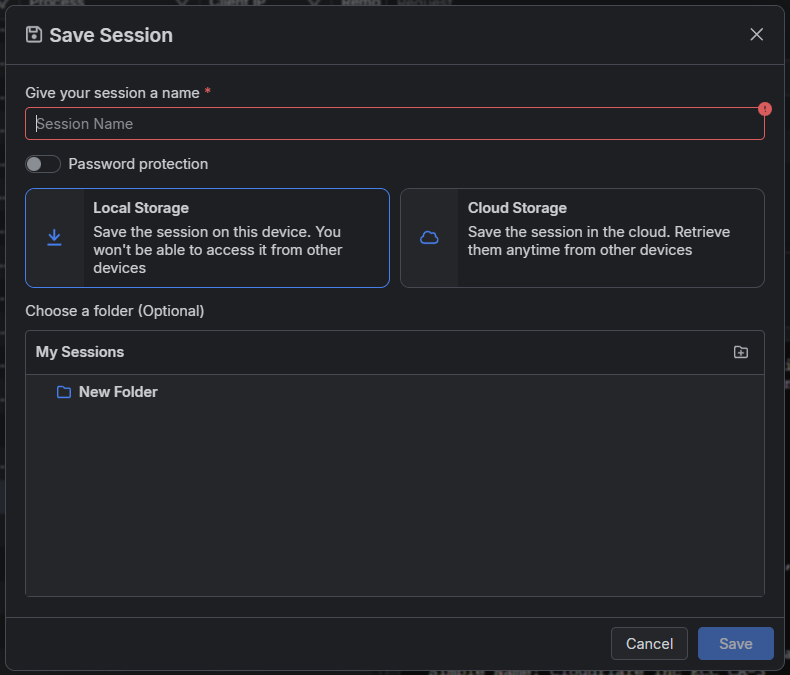
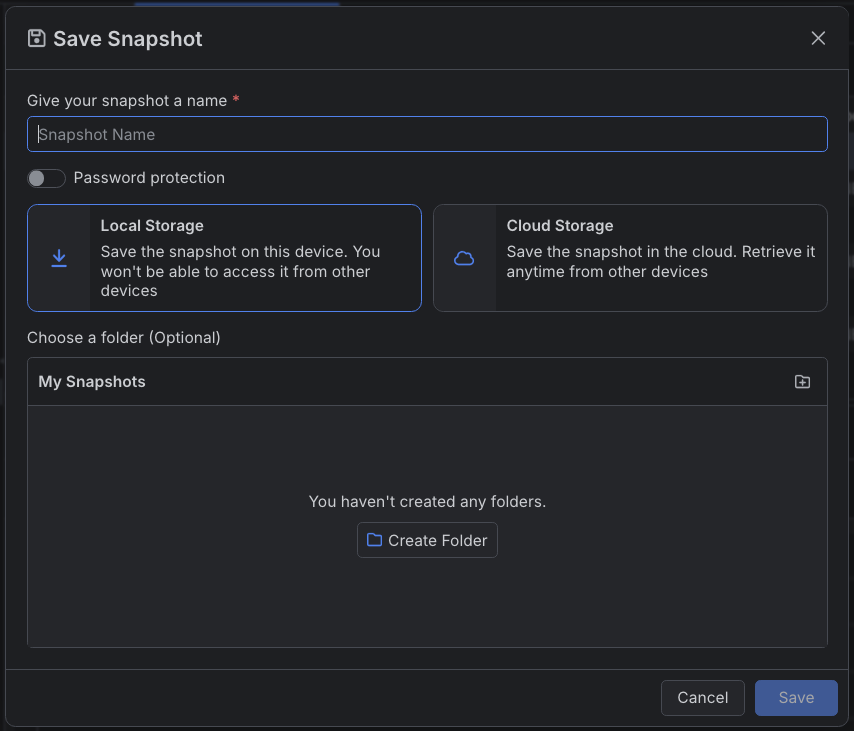
docs: renaming Sessions panel to Snapshots

diff --git a/knowledge-base/live-traffic-pane.md b/knowledge-base/live-traffic-pane.md
@@ -102,13 +102,13 @@ To save sessions for later or prepare sessions for sharing:
 
 1. (Optional) Use the **password protection** switch to enable encryption and set a password.
 
-1. Click **Save**. The saved session immediately loads in the save **Sessions** tree.
+1. Click **Save**. The saved sessions loads in the **Snapshots** tree list.
 
 ### Sharing Sessions
 
 Sharing sessions dramatically improve collaboration, and Fiddler Everywhere provides the following options to export and share sessions:
 
-- Sharing through the **Share** button from a saved session entry in the save **Sessions** tree.
+- Sharing through the **Share** button from a saved session entry in the **Snapshots** tree list.
 
 - Sharing through the **Share** option from the **Live Traffic** grid context menu.
 
@@ -116,11 +116,11 @@ Sharing sessions dramatically improve collaboration, and Fiddler Everywhere prov
 
 To share a session through the toolbar:
 
-1. Click the **Share** button. As a result, the **Save Session** prompt window appears.
+1. Click the **Share** button. As a result, the **Save Snapshot** prompt window appears.
 
-1. In the **Save Sessions** prompt window, enter a valid name and choose a folder to store the session.
+1. In the **Save Snapshot** prompt window, enter a valid name and choose a folder to store the session.
 
-1. In the **Share Sessions** prompt window, enter a valid email and click **Share**. Entering notes is optional.
+1. In the **Share Snapshot** prompt window, enter a valid email and click **Share**. Entering notes is optional.
 
 ### Managing Columns
 
@@ -138,7 +138,7 @@ The last icon on the right side of the toolbar presents an option to restructure
 - (Default layout) **Live Traffic grid** on the left side and the **Inspectors** on the right (top for **Request Inspectors** and bottom for **Response Inspectors**).
 - (Alternative layout) **Live Traffic grid** at the top and the **Inspectors** at the bottom (left for **Request Inspectors** and right for **Response Inspectors**).
 
->tip You can collapse the side panels **Sessions** and **Requests** and toggle the main layout to optimize your working space.
+>tip You can collapse or expand the **Snapshots** and **Requests** side panels and toggle the main layout to optimize your working space.
 
 ## Live Traffic Grid
 
@@ -506,7 +506,7 @@ To add a new rule:
 
 ### Saving
 
-To save selected sessions, use the **Save** context menu option. The saved sessions will appear in the save **Sessions** tree to the left of the Fiddler Everywhere interface, and from there, you can later re-open, export, and share them.
+To save selected sessions, use the **Save** context menu option. The snapshot of saved sessions will appear in the **Snapshots** tree to the left of the Fiddler Everywhere interface, and from there, you can later re-open, export, and share them.
 
 The option displays a **Save** prompt window. To save the desired sessions:
 
@@ -516,7 +516,7 @@ The option displays a **Save** prompt window. To save the desired sessions:
 
 1. (Optional) Use the **password protection** switch to enable encryption and set a password. Only users with knowledge of the password can open the entry.
 
-1. Click **Save**. The saved session immediately loads in the save **Sessions** tree.
+1. Click **Save**. The saved session immediately loads in the save **Snapshots** tree.
 
 1. Double-click the saved session to load it in a new **Composer** tab. Note that encrypted sessions will prompt for a password before loading.
 
@@ -528,7 +528,7 @@ The **Export** context menu option allows you to export the selected sessions in
 
 ### Sharing
 
-The **Share** context menu option enables the sharing of selected sessions. Before any session is shared, it is saved as an entry in the save **Sessions** tree. Then, the threshold can be transmitted through email.
+The **Share** context menu option enables the sharing of selected sessions. Before any session is shared, it is saved as an entry in the save **Snapshots** tree. Then, the threshold can be transmitted through email.
 
 The option initially displays a **Save** and then a **Share** prompt window.
 

diff --git a/collaboration/sharing-data.md b/collaboration/sharing-data.md
@@ -11,7 +11,7 @@ previous_url: /collaboration
 
 This article covers the sharing capabilities of Fiddler Everywhere as follows:
 
-- [Sharing session's snapshots](#sharing-sessions-snapshots)&mdash;Options to save single or multiple captured HTTPS sessions as local/cloud snapshots in the save **Sessions** tree.
+- [Sharing session's snapshots](#sharing-sessions-snapshots)&mdash;Options to save single or multiple captured HTTPS sessions as local/cloud snapshots in the save **Snapshots** tree.
 
 - [Sharing API request collections](#sharing-requests-collections)&mdash;Options to share API requests collections as local/cloud collections in the **Requests** list.
 
@@ -39,9 +39,9 @@ To share a selected session from the ongoing capturing in the sessions grid:
 
 ### Sharing Saved Session Snapshot
 
-To share a saved session snapshot from the save **Sessions** tree:
+To share a saved session snapshot from the save **Snapshots** tree:
 
-1. Double-click a saved session entry from the save **Sessions** tree.
+1. Double-click a saved session entry from the save **Snapshots** tree.
 
 1. The session entry opens in a new tab. Click the **Share** button from the **more** option in the toolbar. This action loads the **Share Sessions** prompt window. 
 
@@ -58,7 +58,7 @@ The **Manage Users** option appears if the session snapshot is stored in the clo
 
 ### Deleting Shared Sessions
 
-Fiddler Everywhere provides options for deleting previously shared sessions. To select the sessions you want to delete, go to the save **Sessions** tree and use the **Delete** button. All users added as collaborators will be notified through the [notification bar](#notifications-for-shared-content)  and with an email message that the shared session is now deleted. To restore deleted sessions, use the **Shared Sessions** option.
+Fiddler Everywhere provides options for deleting previously shared sessions. To select the sessions you want to delete, go to the save **Snapshots** tree and use the **Delete** button. All users added as collaborators will be notified through the [notification bar](#notifications-for-shared-content)  and with an email message that the shared session is now deleted. To restore deleted sessions, use the **Shared Snapshots** option.
 
 
 ## Sharing Requests Collections
@@ -106,7 +106,7 @@ Some network sessions may lack essential details not captured in the technical d
 
 Add a custom comment to one or more captured sessions to provide additional context.
 
-1. Select a session from the sessions grid or load saved sessions from the save **Sessions** tree.
+1. Select a session from the sessions grid or load saved session's snapshot from the save **Snapshots** tree.
 
 1. Add a comment by using the **Comment** option from the context menu or press the **M** key while selecting the desired sessions. As a result, the newly added comment will appear in the **Comments** column.
 
@@ -137,6 +137,6 @@ The Fiddler Everywhere client informs the recipients about shared resources (inc
 
     * Confirm the opening of the resource.
 
-    * The shared resources load in the respective section (for example, a shared session loads in the **Sessions** list, a rule in the **Rules Queue**, and a request in the **Requests** collection). If the shared resource is a snapshot of sessions, its content immediately loads in a new tab.
+    * The shared resources load in the respective section (for example, a shared session loads in the **Snapshots** list, a rule in the **Rules Queue**, and a request in the **Requests** collection). If the shared resource is a snapshot of sessions, its content immediately loads in a new tab.
 
     ![Notification for received content](../images/settings/notifications-for-shared-content.png)

diff --git a/collaboration/saving-data.md b/collaboration/saving-data.md
@@ -11,7 +11,7 @@ previous_url: /user-guide/sessions-list
 
 With Fiddler Everywhere, you can capture and generate data like HTTPS sessions, composed API requests, and rules. It's only natural that the application provides user interface options to save, organize and share the information so it can be reused later. This article covers the saving capabilities of Fiddler Everywhere as follows:
 
-- [Saving session's snapshots](#saving-sessions-snapshots)&mdash;Options to save single or multiple captured HTTPS sessions as local/cloud snapshots in the save **Sessions** tree.
+- [Saving session's snapshots](#saving-sessions-snapshots)&mdash;Options to save single or multiple captured HTTPS sessions as local/cloud snapshots in the save **Snapshots** tree.
 
 - [Saving API requests collections](#saving-api-requests)&mdash;Options to save single or multiple composed API requests as local/cloud collections in the **Requests** list.
 
@@ -27,9 +27,9 @@ The save options in Fiddler Everywhere allow you to use local and cloud save, or
 
 ## Saving Session's Snapshots
 
-The save **Sessions** tree in Fiddler Everywhere lets you store snapshots of previously captured traffic. The section is part of a collapsible panel that you can hide/show to optimize your working space. 
+The save **Snapshots** tree in Fiddler Everywhere lets you store snapshots of previously captured traffic. The section is part of a collapsible panel that you can hide/show to optimize your working space. 
 
-Save session snapshots to the save **Sessions** tree as follows:
+Save session snapshots to the save **Snapshots** tree as follows:
 
 - Use the **Save** option from the more option within the **Live Traffic** grid toolbar.
 
@@ -45,9 +45,9 @@ OR
 
 You can select, inspect, modify, and share snapshots of previously saved session snapshots with collaborators. The snapshots can be saved locally or in the cloud. You can apply the following actions to a saved session snapshot:
 
-- Single-click to select a session snapshot from the save **Sessions** tree.
+- Single-click to select a session snapshot from the save **Snapshots** tree.
 
-- Double-click to open a saved session snapshot from the save **Sessions** tree in a new tab. Only users with the password can open the session entry for encrypted snapshots.
+- Double-click to open a saved session snapshot from the save **Snapshots** tree in a new tab. Only users with the password can open the session entry for encrypted snapshots.
 
 - Right-click to load the context menu of a selected session snapshot. The context menu provides multiple options for managing, exporting, and modifying the saved session entry. 
 
@@ -57,7 +57,7 @@ You can select, inspect, modify, and share snapshots of previously saved session
 
     ![Snapshot UI options](../images/collaboration/save-session-ui-buttons.png)
 0
-- Use the UI buttons at the top to **import** session snapshots or access previously **shared sessions** snapshots.
+- Use the UI buttons at the top to **import** session snapshots or access previously **Shared Snapshots** snapshots.
 
     ![Sessions list UI options](../images/collaboration/save-sessions-list-button.png)
 

diff --git a/inspect-traffic/inspect-traffic.md b/inspect-traffic/inspect-traffic.md
@@ -25,11 +25,11 @@ The session content immediately loads in the Fiddler's **Inspectors**. The appli
 
 ## Overview Traffic Statistics
 
-To extract information about the captured sessions, go to the **Live Traffic** grid, where each request/response entry (session) shows in a row with multiple columns fields in the save **Sessions** tree. There you can extract valuable data such as the returned status code, the host and the URL, the type of the used protocol (HTTP or HTTPS), the body sizer in bytes, and the HTTP method (GET or POST). The output traffic can be filtered, exported, commented on, and shared for further and detailed inspection.
+To extract information about the captured sessions, go to the **Live Traffic** grid, where each request/response entry (session) shows in a row with multiple columns fields. There you can extract valuable data such as the returned status code, the host and the URL, the type of the used protocol (HTTP or HTTPS), the body size in bytes, and the HTTP method (GET or POST). The output traffic can be filtered, exported, commented on, and shared for further and detailed inspection.
 
 To open the structured information about the session in the [**Overview** tab]({%slug overview-tab%}), follow these steps:
 
-1. Capture HTTP(S) traffic while using your preferred [capturing mode]({%slug capture-traffic-get-started%}).
+1. Capture HTTP(S) traffic while using your preferred [capturing mode]({%slug capture-traffic-get-started%}). ALternatively, you can load previosly saved session's snapshot from the **Snapshots** list.
 
 1. Select a session, and switch to the **Overview** tab.
 
@@ -47,10 +47,10 @@ Fiddler Everywhere loads the selected sessions side-by-side with the session wit
 
 [Deep-dive into the Fiddler's `Compare Sessions`` tab here ...]({%slug fe-compare-sessions%})
 
-## Sessions List
+## Snapshots
 
-Fiddler Everywhere provides a section called the **Sessions** tree that allows you to create a collection of previously captured HTTPS sessions.
+Fiddler Everywhere provides a section called the **Snapshots** that is a tree-based list to store and create a collection of previously captured HTTPS sessions.
 
-You can save (and then share) a snapshot of captured traffic (for example, a selected session or multiple selected sessions) through one of the save options within the user interface. The inspection of sessions often happens with teammates or external collaborators. You can share selected or multiple sessions directly from the sessions grid or using the save **Sessions** tree.
+You can save (and then share) a snapshot of captured traffic (for example, a selected session or multiple selected sessions) through one of the save options within the user interface. The inspection of sessions often happens with teammates or external collaborators. You can share selected or multiple sessions directly from the sessions grid or using the save **Snapshots** tree.
 
-[Learn more about saving and sharing with the Fiddler's Sessions tree here ...]({%slug fe-organize-sessions%})
+[Learn more about saving and sharing with the Fiddler's Snapshots tree here ...]({%slug fe-organize-sessions%})

diff --git a/inspect-traffic/organizing-traffic.md b/inspect-traffic/organizing-traffic.md
@@ -1,6 +1,6 @@
 ---
 title: Organizing Traffic
-description: "Use the `Sessions` tree to save, organize and share snapshots of captured traffic."
+description: "Use the `Snapshots` tree to save, organize and share snapshots of captured traffic."
 slug: fe-organize-sessions
 publish: true
 position: 50
@@ -8,18 +8,18 @@ position: 50
 
 # Organizing Traffic
 
-In addition to the core capturing and inspection capabilities, Fiddler Everywhere provides options to save, share and organize already captured sessions. The section that enables you to achieve the above is called the **Sessions** tree. To open the **Sessions** follow these steps:
+In addition to the core capturing and inspection capabilities, Fiddler Everywhere provides options to save, share and organize already captured sessions. The section that enables you to achieve the above is called the **Snapshots** tree. To open the **Snapshots** follow these steps:
 
 1. Start Fiddler Everywhere.
 1. Open the **Traffic** pane.
-1. Expand the **Sessions** tree located to the left.
+1. Expand the **Snapshots** tree located to the left.
 
-The **Sessions** tree in Fiddler Everywhere provides the option to save, organize, modify, inspect, encrypt, and share previously captured traffic. The section is part of a collapsible panel that you can hide/show to optimize your working space.
+The **Snapshots** tree in Fiddler Everywhere provides the option to save, organize, modify, inspect, encrypt, and share previously captured traffic. The section is part of a collapsible panel that you can hide/show to optimize your working space.
 
 
 ## Saving in Fiddler Everywhere
 
-To save snapshots of captured traffic (single or multiple sessions) to the **Sessions** tree, use the saving and sharing options of the **Live Traffic** grid. All saved entries are automatically sorted in alphabetical order.
+To save snapshots of captured traffic (single or multiple sessions) to the **Snapshots** tree, use the saving and sharing options of the **Live Traffic** grid. All saved entries are automatically sorted in alphabetical order.
 
 Save a snapshot of captured HTTPS traffic through the following steps:
 
@@ -27,7 +27,7 @@ Save a snapshot of captured HTTPS traffic through the following steps:
 
 1. Select one or more sessions.
 
-1. Use the context menu or the keyboard shortcuts `S` to invoke the **save** dialog.
+1. Use the context menu or the keyboard shortcuts `S` to invoke the **Save Snapshot** dialog.
 
     ![Save dialog](../images/livetraffic/session-save-prompt.png)
 
@@ -44,9 +44,9 @@ Save a snapshot of captured HTTPS traffic through the following steps:
 
 ## Sharing in Fiddler Everywhere
 
-Already saved snapshots of captured traffic can be shared directly within the **Sessions** tree.
+Already saved snapshots of captured traffic can be shared directly within the **Snapshots** tree.
 
-1. Select the saved snapshot from within the **Sessions** tree.
+1. Select the saved snapshot from within the **Snapshots** tree.
 
 1. Use the context menu to invoke the **Share** dialog.
 

diff --git a/security/security-highlights.md b/security/security-highlights.md
@@ -23,7 +23,7 @@ While using Fiddler Everywhere, consider the following security indicators and h
 
 - Fiddler enables to usage of password protection to prevent unauthorized access to saved sessions stored locally or in the cloud. Fiddler stores all saved sessions as SAZ files and, using the password protection option adds 256-bit AES encryption. Anyone with access to the SAZ file can open unprotected saves.
 
-- Fiddler Everywhere will not store your data in the cloud if you do not use sharing or cloud capabilities. Once you sign in, everything is stored locally (your credentials are verified in the cloud). The only way to get captured data in the cloud is to upload it explicitly through user interaction from the **Sessions** collections, **Requests** collections, or **rules** or share it with collaborators.
+- Fiddler Everywhere will not store your data in the cloud if you do not use sharing or cloud capabilities. Once you sign in, everything is stored locally (your credentials are verified in the cloud). The only way to get captured data in the cloud is to upload it explicitly through user interaction from the **Snapshots** collections, **Requests** collections, or **rules** or share it with collaborators.
 
 - Sessions uploaded to the Fiddler Everywhere cloud space are encrypted when password protection is enabled. All uploaded sessions are stored in the cloud as [Fiddler archives]({%slug fiddler-saz-format%}).
 
@@ -75,7 +75,7 @@ Once Fiddler Everywhere captures the traffic, you have the option to [save the s
 
 - Sessions saved in the cloud will continue locally through the `.fiddler` folder until explicitly removed. Removing the SAZ files from the `./fiddler` folder will remove their presence in the Fiddler Everywhere UI.
 
-- The only way to recover a deleted session from the save **Sessions** tree or a deleted SAZ file from the `.fiddler` folder is to download their cloud copy. Consider using the Fiddler Everywhere clouds saving option as a backup option.
+- The only way to recover a deleted session from the **Snapshots** tree or a deleted SAZ file from the `.fiddler` folder is to download their cloud copy. Consider using the Fiddler Everywhere clouds saving option as a backup option.
 
 - Sessions are stored in Fiddler Everywhere cloud space as SAZ files. Consider protecting sensitive data by adding password protection for all cloud saves, which adds 256-bit AES encryption.
 

diff --git a/inspect-traffic/compare-traffic.md b/inspect-traffic/compare-traffic.md
@@ -46,11 +46,11 @@ You can add and compare more sessions by adding them to the comparison groups.
     ![Add to compare group](../images/livetraffic/compare/compare-context-menu-add-to-group.png)
 
 
-## Comparing Saved Sessions
+## Comparing Saved Session Snapshots
 
-With Fiddler Everywhere, you can compare previously saved sessions from the save **Sessions** tree.
+With Fiddler Everywhere, you can compare previously saved sessions from the save **Snapshots** tree.
 
-1. Select a saved entry from the save **Sessions** tree you want to compare.
+1. Select a saved entry from the save **Snapshots** tree you want to compare.
 
 1. Select the **Compare** option from the context menu.
 
@@ -89,6 +89,6 @@ You can manage all sessions added in the **Compare Sessions (BETA)** tab through
 
 - **Delete Selected Sessions**&mdash;Removes the selected sessions from the compare group.
 
-- **Reveal in the Original List**&mdash;Focuses the selected session in its original location (for example, the **Live Traffic** grid or the opened **Sessions** tree tab).
+- **Reveal in the Original List**&mdash;Focuses the selected session in its original location (for example, the **Live Traffic** grid or the opened **Snapshots** tree tab).
 
 ![Compared Sessions context menu](../images/livetraffic/compare/compare-list-context-menu.png)

diff --git a/knowledge-base/fiddler-archives.md b/knowledge-base/fiddler-archives.md
@@ -103,11 +103,11 @@ The Fiddler Everywhere uses SAZ behind the scenes for each session explicitly sa
 
     ![Export SAZ from Live Traffic](../images/kb/saz/saz-export-live-traffic.png)
 
-- Use the **Export** option from the save **Sessions** tree's context menu and then choose **Fiddler Archive (SAZ)** as format.
+- Use the **Export** option from the **Snapshots** tree's context menu and then choose **Fiddler Archive (SAZ)** as format.
 
-    ![Export SAZ from Lthe saved Sessions list](../images/kb/saz/saz-export-saved-sessions.png)
+    ![Export SAZ from the saved Snapshots tree list](../images/kb/saz/saz-export-saved-sessions.png)
 
-- Use the **Import** option from the save **Sessions** tree's context menu and locate the *.saz file from the OS file system.   
+- Use the **Import** option from the **Snapshots** tree's context menu and locate the *.saz file from the OS file system.   
 
     ![Import SAZ into the **Sesssions** list](../images/kb/saz/saz-import-saved-sessions.png)
 

diff --git a/knowledge-base/certificate-details.md b/knowledge-base/certificate-details.md
@@ -21,9 +21,9 @@ The Fiddler Everywhere client captures HTTPS traffic and obtains information abo
 
 ## Solution
 
-Fiddler Everywhere version 3.2.0 and above contain [indicators and notifications]({%slug web-sessions-list%}#certificate-indicators) that show if a server certificate is valid, expiring, or causes errors.
+Fiddler Everywhere contain [indicators and notifications]({%slug web-sessions-list%}#certificate-indicators) that show if a server certificate is valid, expiring, or causes errors.
 
-Note that certificate information is available only for Live traffic and is not available for saved sessions from the save **Sessions** tree or for SAZ and other imported files.
+Note that certificate information is available only for live traffic (ongoing capturing) and is not present for saved sessions from the **Snapshots** tree or for imported files.
 
 ### Extracting Certificate Details
 

diff --git a/compose-api-requests/api-requests-composer.md b/compose-api-requests/api-requests-composer.md
@@ -44,7 +44,7 @@ Once the API request executes, you can inspect its HTTP Response in the Composer
 
 1. Start Fiddler Everywhere and open the **Traffic** pane.
 
-1. Capture a session (or open a session from the saved save **Sessions** tree) and use the **Edit in Composer** option from the context menu.
+1. Capture a session (or open a session from the saved save **Snapshots** tree) and use the **Edit in Composer** option from the context menu.
 
 As a result, the session loads as an HTTP request in Fiddler's **Composer**, where you can make atomic modifications to its structure. The **Composer** has a flexible user interface that allows you to switch between **Structured** and **Raw** content (refer to the screenshots below) and between **Table** or **Bulk** style inspectors.
 

diff --git a/collaboration/exporting-and-importing.md b/collaboration/exporting-and-importing.md
@@ -24,6 +24,6 @@ The **Export** context menu option allows you to export the captured traffic in 
 
 ## Importing
 
-Use the **Import Session** option (within the saved **Sessions** tree) to load sessions kept in various formats such as `*.saz` (Fiddler Archive), `*.har` (HTTPrchive), `*.tstest` (TestStudio LoadTest), `*.cap` (Packet Capture), `*.xml` (IE F12 NetXML).
+Use the **Import Session** option (within the saved **Snapshots** tree) to load sessions kept in various formats such as `*.saz` (Fiddler Archive), `*.har` (HTTPrchive), `*.tstest` (TestStudio LoadTest), `*.cap` (Packet Capture), `*.xml` (IE F12 NetXML).
 
 ![Saved sessions import](../images/sessions/saved-sessions-import.png)

diff --git a/modify-and-filter-traffic/replaying-traffic.md b/modify-and-filter-traffic/replaying-traffic.md
@@ -44,4 +44,4 @@ The above opens the **Advanced Replay** configuration prompt window, allowing yo
 
 ![Advanced Replay configuration](../images/rules/replay-advanced.png)
 
-All replay options are available for live traffic and traffic loaded from saved snapshots (for example, saved snapshots loaded from the **Sessions** list or imported SAZ files).
+All replay options are available for live traffic and traffic loaded from saved snapshots (for example, saved session's snapshots loaded from the **Snapshots** list or from imported SAZ files).
